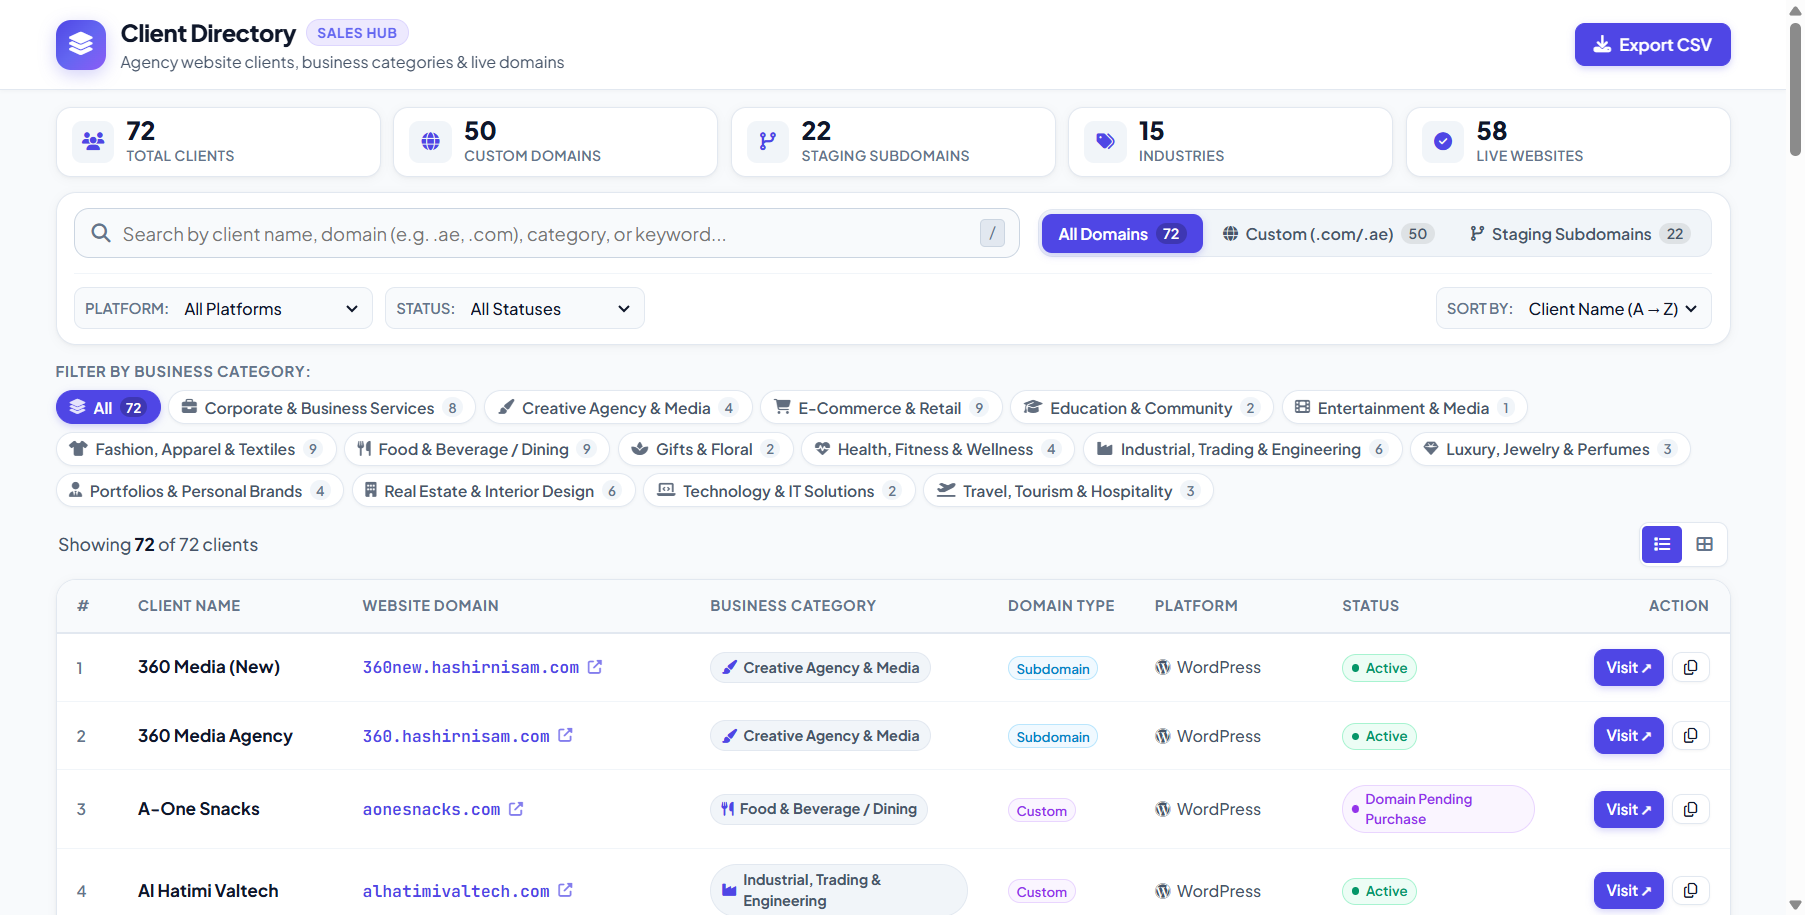
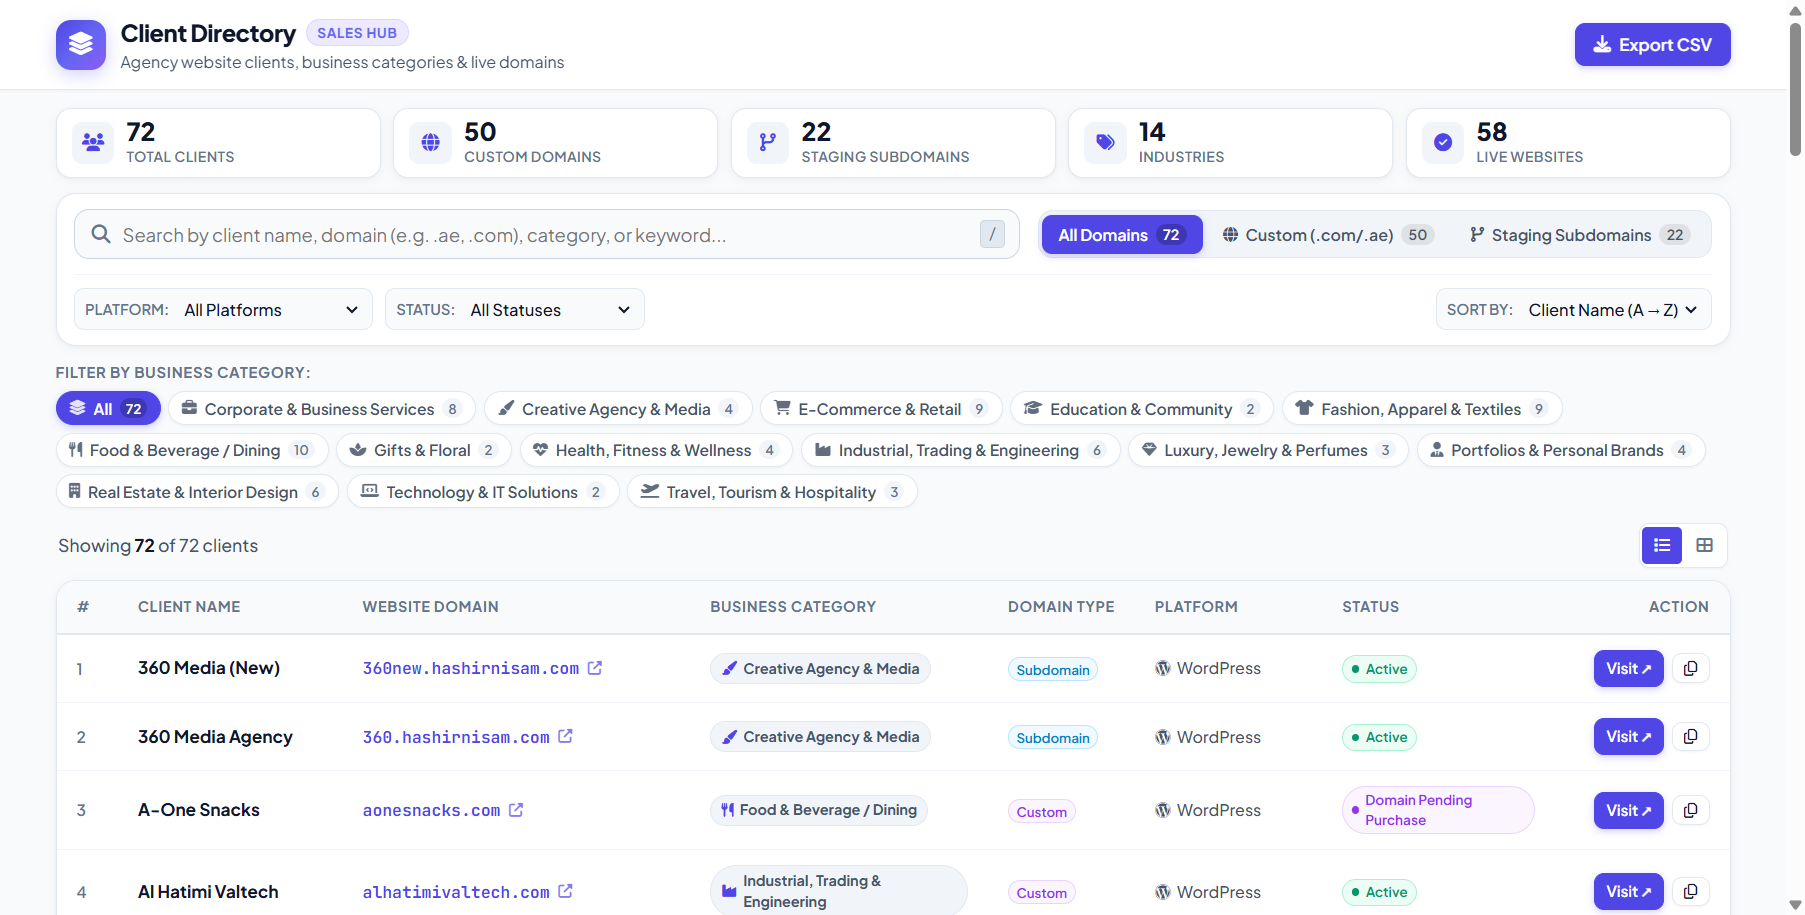
fix(data): update Pandur World category to Food & Beverage / Dining

diff --git a/js/clients-data.js b/js/clients-data.js
@@ -17,14 +17,14 @@ const CLIENTS_DATA = [
   },
   {
     id: "client-02",
-    name: "Pandur World",
+    name: "Pandur World Cookies",
     domain: "pandurworld.com",
     url: "https://pandurworld.com",
     type: "custom",
-    category: "Entertainment & Media",
+    category: "Food & Beverage / Dining",
     platform: "HTML / Web App",
     status: "Pending Setup",
-    tags: ["Entertainment", "Media", "Web App", "Custom Domain"]
+    tags: ["Cookies", "Bakery", "Food & Beverage", "Snacks", "Custom Domain"]
   },
   {
     id: "client-03",

diff --git a/index.html b/index.html
@@ -75,7 +75,7 @@
       <div class="kpi-item">
         <div class="kpi-icon"><i class="fas fa-tags"></i></div>
         <div>
-          <div class="kpi-num" id="categoriesCount">15</div>
+          <div class="kpi-num" id="categoriesCount">14</div>
           <div class="kpi-label">Industries</div>
         </div>
       </div>
